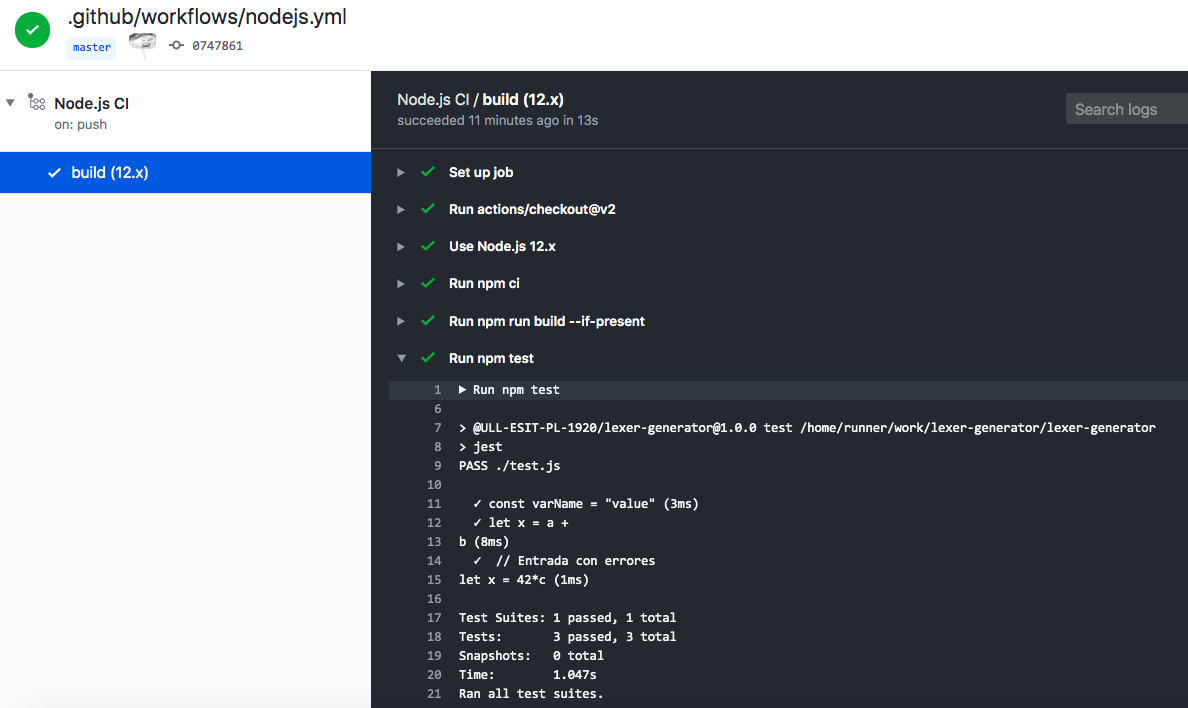
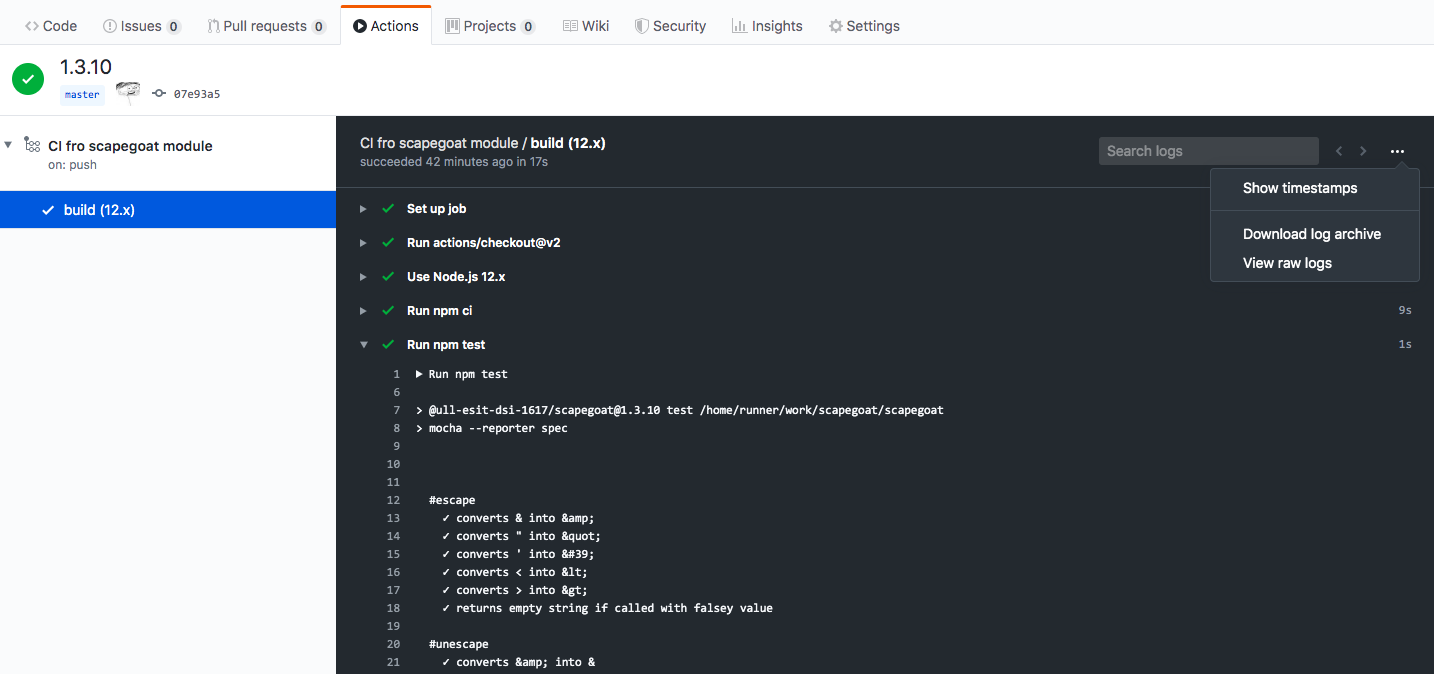
2019

diff --git a/tema1-introduccion-a-javascript/creating-and-publishing-npm-module.md b/tema1-introduccion-a-javascript/creating-and-publishing-npm-module.md
@@ -423,6 +423,8 @@ $ cat package.json
 }
 ```      
 
+(NOTE: `git ci` is an alias I have of `git commit`)
+
 After doing so, we can then execute the tests by entering following
 command.
 
@@ -506,7 +508,7 @@ $ git add .github/workflows/nodejs.yml
 $ git ci -am .github/workflows/nodejs.yml
 ```
 
- Now when we do a push:
+Now when we do a push:
 
 ```
 $ git push
@@ -523,6 +525,8 @@ The action is triggered. Let us go and click on the **actions tab** in our repo:
 ![]({{site.baseurl}}/assets/images/github-actions-4-complete-job.png)
 
 ![]({{site.baseurl}}/assets/images/github-actions-5-completed.png)
+
+Observe that by clicking on the dots on the right side you can view the raw logs
 
 ### Documentation and README.md
 
